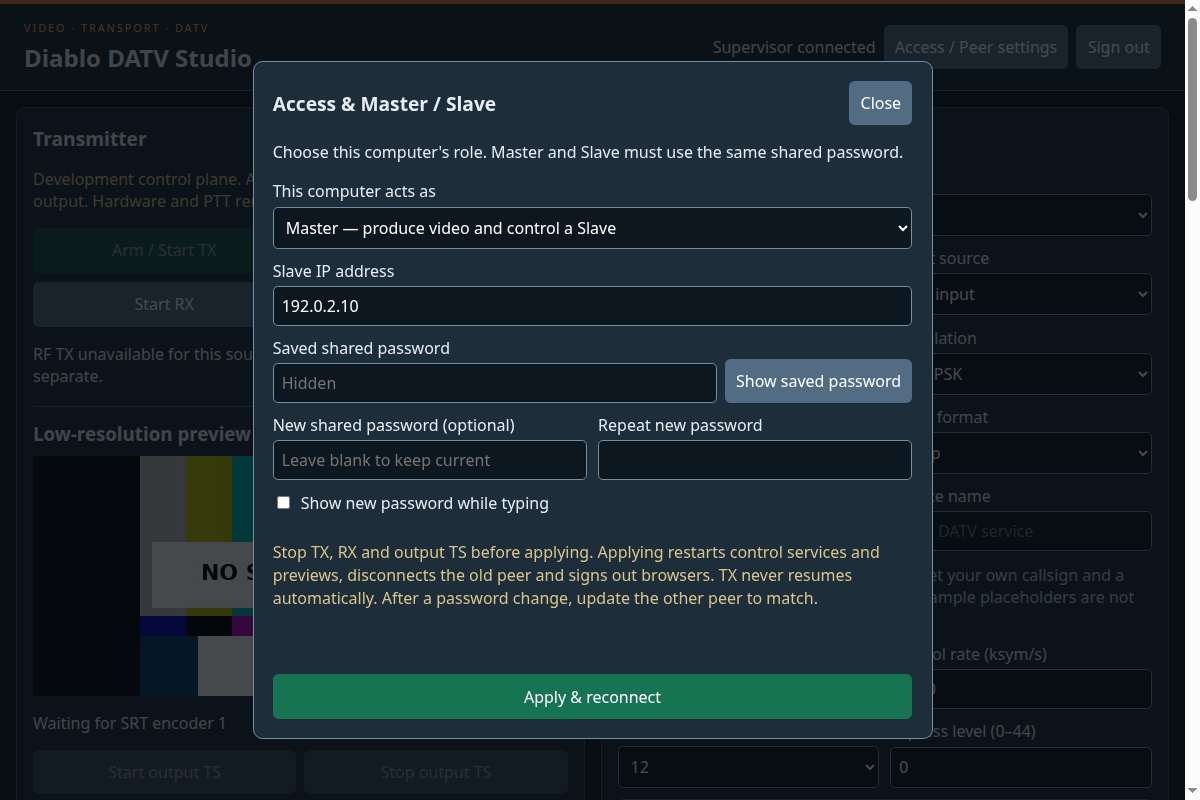
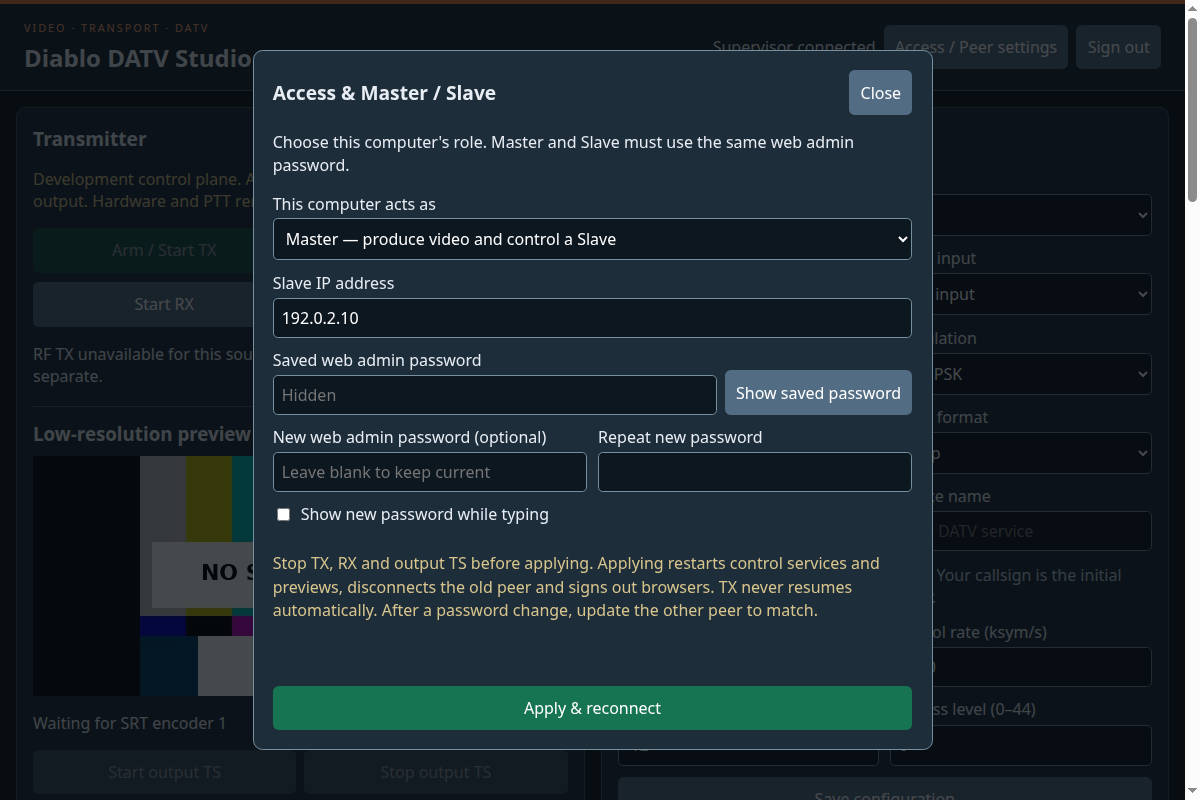
docs: refresh login and access screenshots for web admin labels

diff --git a/doc/SCREENSHOTS.md b/doc/SCREENSHOTS.md
@@ -12,7 +12,7 @@ documentation-only address. Random test ports are not the installation defaults.
 | Screenshot | What it demonstrates | Use in docs |
 | --- | --- | --- |
 | [Access / Peer settings](#access--peer-settings) | Actual popup: role, Slave IP, show/change password, apply/reconnect | LAN access / peer setup |
-| [Shared-password sign-in](#shared-password-sign-in) | Real HTTPS login screen; password field empty | First start / LAN access |
+| [Web admin sign-in](#web-admin-sign-in) | Real HTTPS login screen; password field empty | First start / LAN access |
 | [Direct SRT](#direct-srt-and-five-input-encoders) | Selected SRT slot, preview in TX column, waiting cards, caller links | README / first SRT setup |
 | [ASI settings](#asi-output-and-metadata-flag) | ASI bitrate/device/channel, advisory metadata mismatch | ASI guide |
 | [Elgato HDMI](#elgato-hdmi-configuration) | V4L2/ALSA controls, low-resolution preview | Capture setup |
@@ -22,11 +22,11 @@ documentation-only address. Random test ports are not the installation defaults.
 | [Real Pi Camera / SRT](#real-pi-camera-to-srt-and-peer-control) | Real IMX708 source, standalone live/loss, MASTER/SLAVE previews and E-Stop acknowledgement | README / Pi setup |
 | [Mobile](#mobile-layout) | Single-column responsive controls at 390 px viewport | UI/device support |
 
-## Shared-password sign-in
+## Web admin sign-in
 
-![Diablo shared-password sign-in over HTTPS](images/diablo-login.png)
+![Diablo web admin sign-in over HTTPS](images/diablo-login.png)
 
-Real Chromium capture of an isolated HTTPS fixture, 2026-11-25. The password field
+Real Chromium capture of an isolated HTTPS fixture, refreshed 2026-11-27. The password field
 is empty. Browser sign-in, protected dashboard access, HttpOnly cookies and
 Sign out were exercised; no hardware or personal password was used. This is the
 new LAN entry screen; older dashboard captures below predate the Sign out button.
@@ -36,7 +36,7 @@ See [LAN setup](LAN_ACCESS.md).
 
 ![Web access and Master/Slave popup](images/diablo-access-settings.png)
 
-Actual Chromium capture, 2026-11-25, from an isolated managed HTTPS installation.
+Actual Chromium capture, refreshed 2026-11-27, from an isolated managed HTTPS installation.
 Master is selected in the form with documentation-only address `192.0.2.10`.
 Saved/new passwords are hidden or empty. The test exercised reveal/hide, role
 application, automatic restart/sign-in and reloaded saved values, plus the popup

diff --git a/doc/LAN_ACCESS.md b/doc/LAN_ACCESS.md
@@ -31,7 +31,7 @@ commands or SSH tunnel are needed after First Start.
 
 ![Access and Master/Slave settings popup, with password hidden](images/diablo-access-settings.png)
 
-Actual Chromium capture of an isolated test installation. The selected Master
+Actual Chromium capture refreshed with the current web admin labels. The selected Master
 role and `192.0.2.10` address illustrate the form; use your own Slave's LAN address.
 The password is hidden and no hardware output was running.
 
